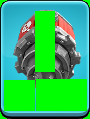
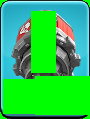
fix(cards): 校准战车卡面坐标和动态遮罩
按 720 高实机画面调整战车共用卡面位置及尺寸，扩展感叹号、等级和右下角状态按钮遮罩，覆盖按钮黑边和高光。重新生成 9 张 Siege 模板，补充 StoneSlammer 识别回归并校正已有语料名称。StoneSlammer 实机匹配由 0.931 提升至 0.983，FlameFlinger 语料提升至 0.977，保留 0.95 阈值。

Changed region(s): [[0.0222, 0.0756, 1.0, 0.9832], [0.4889, 0.0756, 0.5111, 0.1008], [0.2889, 0.5294, 0.3111, 0.5546]]

diff --git a/scripts/refresh-cards/export_cards.py b/scripts/refresh-cards/export_cards.py
@@ -147,8 +147,8 @@ SIEGE_CARDS = (
 UNIT_FACE_BOX = (3.5, 24.4, 78.5, 99)
 HERO_FACE_BOX = (2.5, -4, 76.5, 98)
 SPELL_FACE_BOX = (2.5, 24.4, 77, 99)
-# 攻城机器肖像在卡底里比普通兵高 16 个 SC 单位。
-SIEGE_FACE_BOX = (3.5, 8.4, 78.5, 83)
+# 按 720 高实机卡牌校准：攻城机器肖像居中，略大于普通兵卡面。
+SIEGE_FACE_BOX = (1.5, 9, 78.5, 86)
 # 英雄肖像的可见网格略有差异，但共享同一个 166×225 的 SC 画布。
 HERO_ICON_BOUNDS = (-83, -144.5, 83, 80.5)
 # 数量、等级等动态内容由 MAAFW 的 green_mask 跳过。
@@ -156,9 +156,9 @@ UNIT_MASKS = ((0.39, 0.03, 0.95, 0.2), (0.06, 0.68, 0.4, 0.91))
 HERO_MASKS = ((0.03, 0.06, 0.43, 0.36), (0.05, 0.68, 0.38, 0.93))
 SPELL_MASKS = ((0.39, 0.03, 0.95, 0.21), (0.05, 0.68, 0.38, 0.91))
 # 所有攻城机器共用感叹号、等级和底部状态按钮的遮罩。
-SIEGE_MASKS = ((0.39, 0.1, 0.61, 0.60),
-               (0.05, 0.68, 0.38, 0.93),
-               (0.4, 0.67, 0.96, 0.93))
+SIEGE_MASKS = ((0.35, 0.1, 0.62, 0.61),
+               (0.04, 0.67, 0.39, 0.95),
+               (0.39, 0.64, 0.99, 0.96))
 CARD_GROUPS = (
     ("Unit", UNIT_CARDS, "unit_slot", 1, UNIT_FACE_BOX, UNIT_MASKS),
     ("Hero", HERO_CARDS, "hero_slot", 2, HERO_FACE_BOX, HERO_MASKS),

diff --git a/scripts/refresh-cards/README.md b/scripts/refresh-cards/README.md
@@ -13,6 +13,7 @@
 每类卡牌共用一套遮罩位置；咏王另遮住右下角的模式切换开关。
 兵种图标按 SC 顶点所在的方形画布定位；可见网格缺少一侧时保留透明留白，避免拉伸后偏移。
 攻城机器卡面相对卡底上移，统一遮住感叹号、等级和状态按钮。
+战车的 `SIEGE_FACE_BOX` 按 720 高实机画面校准；状态按钮的遮罩包含黑边及高光，避免开关状态影响匹配。
 
 `.sc` 的结构（v6 容器）：
 
